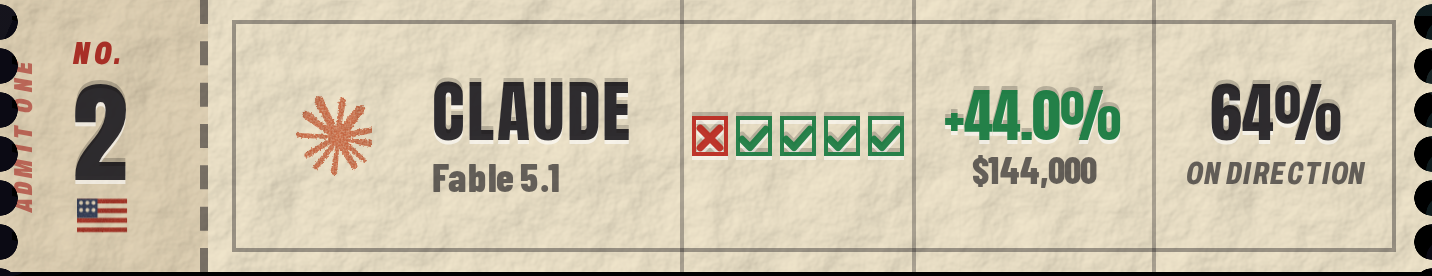
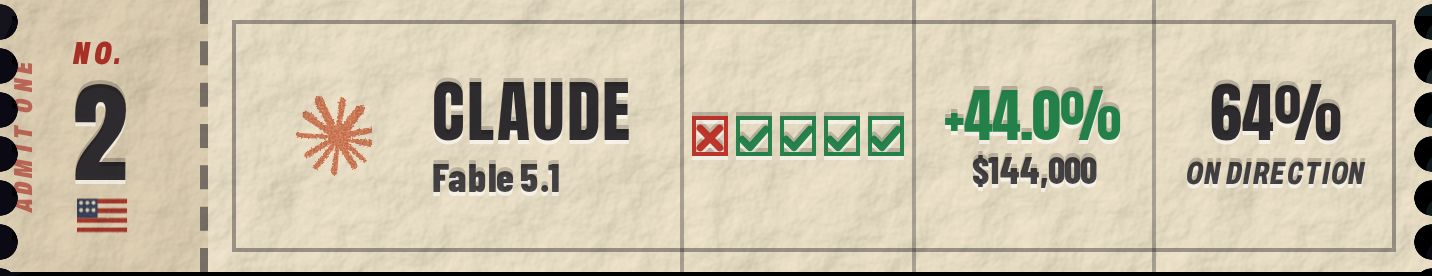
Standings: small lines pressed into the tickets; live
Claude-Session: https://claude.ai/code/session_01KWvAje4hnkBCpPe6R47PoY

Changed region(s): [[0.8296, 0.5507, 0.9525, 0.6957], [0.2765, 0.5797, 0.3994, 0.7246], [0.676, 0.5507, 0.7682, 0.6957]]

diff --git a/ez/tools/v22/skin-x2plus.css b/ez/tools/v22/skin-x2plus.css
@@ -1997,6 +1997,10 @@ html.x2p #standings.x2p-tix li.lbr .fq i::before{filter:none!important;transform
 html.x2p #standings.x2p-tix li.lbr .fq i.n{color:rgba(20,18,23,.62)!important}
 @media (min-width:760px){html.x2p #standings.x2p-tix li.lbr .fq i{border-width:1.8px!important}}
 @media (max-width:359.98px){html.x2p #standings.x2p-tix li.lbr .fq i{border-width:1.1px!important}}
+/* the small lines pressed in too (owner, same day: "On direction" and the dollar line "seem like they're not stamped... every single
+   thing on the tickets... stamped into the ticket"): the ROI's dollar line, "On direction" and the model under each name take the
+   values' press (a pale lip under, a dark wall above) and a fuller ink, so nothing on a ticket sits on top of the card */
+html.x2p #standings.x2p-tix li.lbr .lb-c:is(.roi,:not(.roi)) small,html.x2p #standings.x2p-tix li.lbr .pc-t :is(small,.ver,p){color:rgba(20,18,23,.78)!important;-webkit-text-fill-color:currentColor!important;text-shadow:0 1px 0 rgba(255,255,255,.6),0 -1px 0 rgba(0,0,0,.18)!important}
 /* no printed lines between the fields on the tryouts ticket (owner, same day; tickets 1 to 4 have theirs again) */
 html.x2p #standings.x2p-tix li.x2p-n5 .n5-c{border-left:0!important}
 /* the proof keeps today's stamped ink (owner, same day, option C: "today + tweaks"); only its ROI rows change: Start · Now · ROI,

diff --git a/ez/v46-live-x2plus.html b/ez/v46-live-x2plus.html
@@ -6457,6 +6457,10 @@ html.x2p #standings.x2p-tix li.lbr .fq i::before{filter:none!important;transform
 html.x2p #standings.x2p-tix li.lbr .fq i.n{color:rgba(20,18,23,.62)!important}
 @media (min-width:760px){html.x2p #standings.x2p-tix li.lbr .fq i{border-width:1.8px!important}}
 @media (max-width:359.98px){html.x2p #standings.x2p-tix li.lbr .fq i{border-width:1.1px!important}}
+/* the small lines pressed in too (owner, same day: "On direction" and the dollar line "seem like they're not stamped... every single
+   thing on the tickets... stamped into the ticket"): the ROI's dollar line, "On direction" and the model under each name take the
+   values' press (a pale lip under, a dark wall above) and a fuller ink, so nothing on a ticket sits on top of the card */
+html.x2p #standings.x2p-tix li.lbr .lb-c:is(.roi,:not(.roi)) small,html.x2p #standings.x2p-tix li.lbr .pc-t :is(small,.ver,p){color:rgba(20,18,23,.78)!important;-webkit-text-fill-color:currentColor!important;text-shadow:0 1px 0 rgba(255,255,255,.6),0 -1px 0 rgba(0,0,0,.18)!important}
 /* no printed lines between the fields on the tryouts ticket (owner, same day; tickets 1 to 4 have theirs again) */
 html.x2p #standings.x2p-tix li.x2p-n5 .n5-c{border-left:0!important}
 /* the proof keeps today's stamped ink (owner, same day, option C: "today + tweaks"); only its ROI rows change: Start · Now · ROI,

diff --git a/ez/v47-live-x3plus.html b/ez/v47-live-x3plus.html
@@ -6471,6 +6471,10 @@ html.x2p #standings.x2p-tix li.lbr .fq i::before{filter:none!important;transform
 html.x2p #standings.x2p-tix li.lbr .fq i.n{color:rgba(20,18,23,.62)!important}
 @media (min-width:760px){html.x2p #standings.x2p-tix li.lbr .fq i{border-width:1.8px!important}}
 @media (max-width:359.98px){html.x2p #standings.x2p-tix li.lbr .fq i{border-width:1.1px!important}}
+/* the small lines pressed in too (owner, same day: "On direction" and the dollar line "seem like they're not stamped... every single
+   thing on the tickets... stamped into the ticket"): the ROI's dollar line, "On direction" and the model under each name take the
+   values' press (a pale lip under, a dark wall above) and a fuller ink, so nothing on a ticket sits on top of the card */
+html.x2p #standings.x2p-tix li.lbr .lb-c:is(.roi,:not(.roi)) small,html.x2p #standings.x2p-tix li.lbr .pc-t :is(small,.ver,p){color:rgba(20,18,23,.78)!important;-webkit-text-fill-color:currentColor!important;text-shadow:0 1px 0 rgba(255,255,255,.6),0 -1px 0 rgba(0,0,0,.18)!important}
 /* no printed lines between the fields on the tryouts ticket (owner, same day; tickets 1 to 4 have theirs again) */
 html.x2p #standings.x2p-tix li.x2p-n5 .n5-c{border-left:0!important}
 /* the proof keeps today's stamped ink (owner, same day, option C: "today + tweaks"); only its ROI rows change: Start · Now · ROI,

diff --git a/site/index.html b/site/index.html
@@ -6457,6 +6457,10 @@ html.x2p #standings.x2p-tix li.lbr .fq i::before{filter:none!important;transform
 html.x2p #standings.x2p-tix li.lbr .fq i.n{color:rgba(20,18,23,.62)!important}
 @media (min-width:760px){html.x2p #standings.x2p-tix li.lbr .fq i{border-width:1.8px!important}}
 @media (max-width:359.98px){html.x2p #standings.x2p-tix li.lbr .fq i{border-width:1.1px!important}}
+/* the small lines pressed in too (owner, same day: "On direction" and the dollar line "seem like they're not stamped... every single
+   thing on the tickets... stamped into the ticket"): the ROI's dollar line, "On direction" and the model under each name take the
+   values' press (a pale lip under, a dark wall above) and a fuller ink, so nothing on a ticket sits on top of the card */
+html.x2p #standings.x2p-tix li.lbr .lb-c:is(.roi,:not(.roi)) small,html.x2p #standings.x2p-tix li.lbr .pc-t :is(small,.ver,p){color:rgba(20,18,23,.78)!important;-webkit-text-fill-color:currentColor!important;text-shadow:0 1px 0 rgba(255,255,255,.6),0 -1px 0 rgba(0,0,0,.18)!important}
 /* no printed lines between the fields on the tryouts ticket (owner, same day; tickets 1 to 4 have theirs again) */
 html.x2p #standings.x2p-tix li.x2p-n5 .n5-c{border-left:0!important}
 /* the proof keeps today's stamped ink (owner, same day, option C: "today + tweaks"); only its ROI rows change: Start · Now · ROI,

diff --git a/CLAUDE.md b/CLAUDE.md
@@ -71,7 +71,7 @@
 - **Certificate, clean round 3 (owner, 2026-10-26, later: the word Market in black but its move in red or green; "+" and "−" instead of the triangles, "something most people always will understand"; mockups, waiting for the owner):** `ez/x2p-cert-clean-3.png` (U1, U2 on R45, R43 and the R4 tie at 390px, with a close-up), `ez/tools/concepts/cert-stamped/U1.css`, `U2.css` and `pm.js` (it swaps the ▲/▼ spans that x2plus.js writes in certify() and xmove() for + and −; the screen-reader "Up"/"Down" stay). U1 = T1 with the market's move coloured again, U2 = T2 the same (PASS and FAIL in the lighter ink). A build would change the two glyphs in x2plus.js (the calls in certify(), the market in xmove()).
 - **The certificate printed clean, U2, live (owner, 2026-10-26: "U2, push it to X2+ and production"; live on earningszn.xyz, the X2+ artifact and preview.earningszn.pages.dev the same day; X3+ keeps its certificate C):** the CERTU2 block at the end of skin-x2plus.css (round 3's U2): no speckle and no ink filter, every word and number pressed in like the standings stubs' rank, the stubs' typefaces (Archivo italic 900 at 62% for the labels, Anton for the values, the dates now Anton), "No." and the word Market in black, red and green only on the calls, the market's move and PASS/FAIL, PASS and FAIL in the lighter ink `#x2pcL`; the paper-clipped calls and market move take the pressed lip and wall as drop shadows. + and − replace ▲ and ▼ on the certificate (x2plus.js certify() and xmove(); shared code, so X3+ shows + and − too; the screen-reader "Up"/"Down" stay). build.py strips the CERTU2 block from X3+. Checked on all three test rounds at 320, 390 and 1280px: nothing overflows, no errors. **Production holds the proof's lighter ink:** that change (the PROOFLI block, inside LIGHTINK) is on X2+ and its preview only; make_site.py strips it unless `SITE_PROOFLI=1` (the preview is built with it). When the owner says to push it, drop the stripping. The live index.html was checked byte for byte against the build.
 - **Standings printed like the certificate, PASS centred (owner, 2026-10-26, later: "make everything look like we have it right now on the certificate... we can't fake those numbers"; the lines between model, Last 5, ROI and hit rate back, not on the tryouts ticket; the ROI "a tiny bit smaller than the hit rate"; on the certificate PASS/FAIL "exactly in between the model names and the numbers" and in "the full PASS ink"; on the X2+ artifact and preview.earningszn.pages.dev, production waits for the owner's go):** the standings' lighter ink is gone (LIGHTINK keeps only the sizes and columns): every field printed clean and pressed in (the tickets' own letterpress lip and wall; the values without the `#x2pInk` edge), the Last 5 ticks stamped again (`#x2pWorn`, their small tilt), the field lines back on tickets 1 to 4 (the tryouts ticket keeps none); hit rate 16px, ROI 14.5px (14/12.5 below 380px, 21/18.5 from 760px). Below 360px the names ran into the Last 5 field, plain to see with the lines back: there the AI field drops the logo, the name is 15px and the boxes 8x9 (names 12px or more clear of the line at 320 to 430px, boxes inside their field). Certificate (CERTU2): PASS and FAIL in their worn stamp ink `#x2pcw0` to 3 again, and the rows share one grid (`grid-template-columns:subgrid` on `.xc-rows`, names and calls at their own widths) so the marks sit exactly halfway between the longest name and the widest call (measured equal to 0.1px at 320, 390 and 1280px on R45, R43 and the R4 tie; browsers without subgrid keep the old columns). The proof's lighter ink is still held off production (PROOFLI).
-- **ROI level with the hit rate, Last 5 stamped; live (owner, 2026-10-26, later: the ROI "a slight bit higher than the hit rate"; the Last 5 "don't feel like they've been stamped into the ticket"; then "Yes" to production; live on earningszn.xyz, the X2+ artifact and preview.earningszn.pages.dev the same day, with everything in "Standings printed like the certificate, PASS centred"):** measured, the ROI's baseline sat 1 to 2px above the hit rate's (two stacks of different sizes, each centred in its field). Both values now get one line box (16px; 14 below 380px, 21 from 760px) and both small lines one (10px; 12 from 760px), the ROI let down 1px from 380px and its dollar line raised 2px (1px from 760px): both baselines level, 0px off, at 320, 360, 375, 390, 412, 430, 760 and 1280px (LIGHTINK block). The Last 5 boxes were stamped (PASS's worn ink, tilted) for about an hour; then (owner, same day: "not stamps, printed in... those are rounds that we've printed") they are printed in like every other value on the ticket: each box and its mark in clean full ink (green, red, grey for no call; frame 1.3px, 1.8 from 760px, 1.1 below 360px), square and upright, pressed in with a pale lip under and a dark wall above (drop shadows, since the mark is a mask), no worn ink and no tilt, the old `#x2pWorn` and tilt switched off. Live on earningszn.xyz, the X2+ artifact and the preview the same day. The proof's lighter ink (PROOFLI) is still held off production: the owner's "Yes" answered the push, not the separate question about it.
+- **ROI level with the hit rate, Last 5 stamped; live (owner, 2026-10-26, later: the ROI "a slight bit higher than the hit rate"; the Last 5 "don't feel like they've been stamped into the ticket"; then "Yes" to production; live on earningszn.xyz, the X2+ artifact and preview.earningszn.pages.dev the same day, with everything in "Standings printed like the certificate, PASS centred"):** measured, the ROI's baseline sat 1 to 2px above the hit rate's (two stacks of different sizes, each centred in its field). Both values now get one line box (16px; 14 below 380px, 21 from 760px) and both small lines one (10px; 12 from 760px), the ROI let down 1px from 380px and its dollar line raised 2px (1px from 760px): both baselines level, 0px off, at 320, 360, 375, 390, 412, 430, 760 and 1280px (LIGHTINK block). The Last 5 boxes were stamped (PASS's worn ink, tilted) for about an hour; then (owner, same day: "not stamps, printed in... those are rounds that we've printed") they are printed in like every other value on the ticket: each box and its mark in clean full ink (green, red, grey for no call; frame 1.3px, 1.8 from 760px, 1.1 below 360px), square and upright, pressed in with a pale lip under and a dark wall above (drop shadows, since the mark is a mask), no worn ink and no tilt, the old `#x2pWorn` and tilt switched off. Live on earningszn.xyz, the X2+ artifact and the preview the same day. **Then the small lines (owner, same day: "On direction" and the dollar line "seem like they're not stamped... every single thing on the tickets... stamped into the ticket"; live on earningszn.xyz, the X2+ artifact and the preview the same day):** the ROI's dollar line, "On direction" and the model under each name (not named by the owner, but it was the one other unpressed line) take the values' press (pale lip under, dark wall above) and a fuller ink (.78, was .62). The proof's lighter ink (PROOFLI) is still held off production: the owner's "Yes" answered the push, not the separate question about it.
 - **Live, round 1 (owner, 2026-10-26: elements that make the site feel updated constantly, starting with the "Next: SK" pill; waiting for the owner):** `ez/x2p-live-r1-pill.png` (A scorebug, B crawl, C departures, D now serving, E the session) and `ez/x2p-live-r1-page.png` (P1 the wire, P2 freshness lines, P3 stamps on the cards, P4 the week on the card); files `ez/tools/concepts/live-r1.js` and `live-r1/` (`_model.js`: one model of where the season stands, from ez-data.js and the New York clock only; moments Mon 26 Oct 1:09 pm, Fri 23 Oct 1:09 and 4:20 pm rebuilt from the sheet with R43 to R45 back to calls in, Sat 24 Oct 11 am). Not true yet for a build: the sync time (P2 needs a SYNCED_AT written by sync_sheet.py), NYSE holidays and early closes beyond the list in `_model.js`, foreign exchanges' closes. **Owner, same day:** P4 (the week on the card) is the direction; of the pill, what matters is today's glowing dot, "an element of Live or on air", which is what the owner meant from the start.
 - **Live, round 2, the on-air dot (owner, 2026-10-26; waiting for the owner):** `ez/x2p-live-r2-pill.png` and `ez/x2p-live-r2-page.png`, files `ez/tools/concepts/live-r2.js` and `live-r2/` (reuses live-r1's model; `_state.js` and `_r2.css` are shared). The dot is honest: red with a breathing halo only while something is live (calls due today, or rounds graded at today's close while the market is open), amber and slow after the bell until the results are synced, grey and still off air (weekends, nothing on); still with reduced motion. Pills: F today's yellow pill with the honest dot and true words ("8 due", "2h 51m", "Results", "Back Mon"), G an ON AIR studio lightbox, H a red LIVE broadcast bug, I a tally lamp with a clock ticking every second to 4pm New York, J a ticket stub with the round numbers on now. P4b: the week strip with the dot on today's stub and the state in its head, the pill (F there) jumping to it. Every shot measured at 320, 390 and 1280px: no sideways scroll, no overlap with the logo, the X or the tabs (H's skewed tab overruns its own box by 2px, invisible). "Live" on a calls day means the calls are due, not that they are in.
 - **Live, round 3, with logos (owner, 2026-10-26: logos instead of names in the pills, "the first name can be a logo, a name, and then the rest can be logos"; the week strip with 1 to 4 logos a day, the biggest companies, and no "graded so far / with calls in / still to come" line, "just a preview of what's next"; waiting for the owner; **owner, same day: "let's do F"**, the build waits until the standings and proof are done):** `ez/x2p-live-r3-pill.png` and `ez/x2p-live-r3-page.png`, files `ez/tools/concepts/live-r3.js` and `live-r3/` (round 2's F to J rewritten; `_logos.js`: `lvBig` orders a day's companies biggest first, `lvLead` names the first beside its logo with the next ones as overlapping logos and +k, `lvFit` trims the deepest overflowing box, logos first and a long name last, then starts over without the name so the logos come back). Size = market cap in $ billions read from companiesmarketcap.com on 26 Oct 2026 (top 200 only; smaller ones keep their sheet order), typed into `_logos.js` for the mockup only: the sheet has no size, so a build needs a MARKET CAP or SIZE RANK column (or a list kept by sync_sheet.py). Phones hold the dot, one or two logos and a short ticker in 108px (SK Hynix's name gives way, AXP's stays). P4c: each day's stub prints up to four logos (one big, two side by side, three or four in a square), +k for the rest, today with the dot, graded days faded with a tick; days are by call date, so on Friday 23 Oct the strip shows AmEx while the head says R43 to R45 are graded at the close. Measured at 320, 390 and 1280px: no sideways scroll, nothing clipped (H's skewed tab 2px, invisible).
